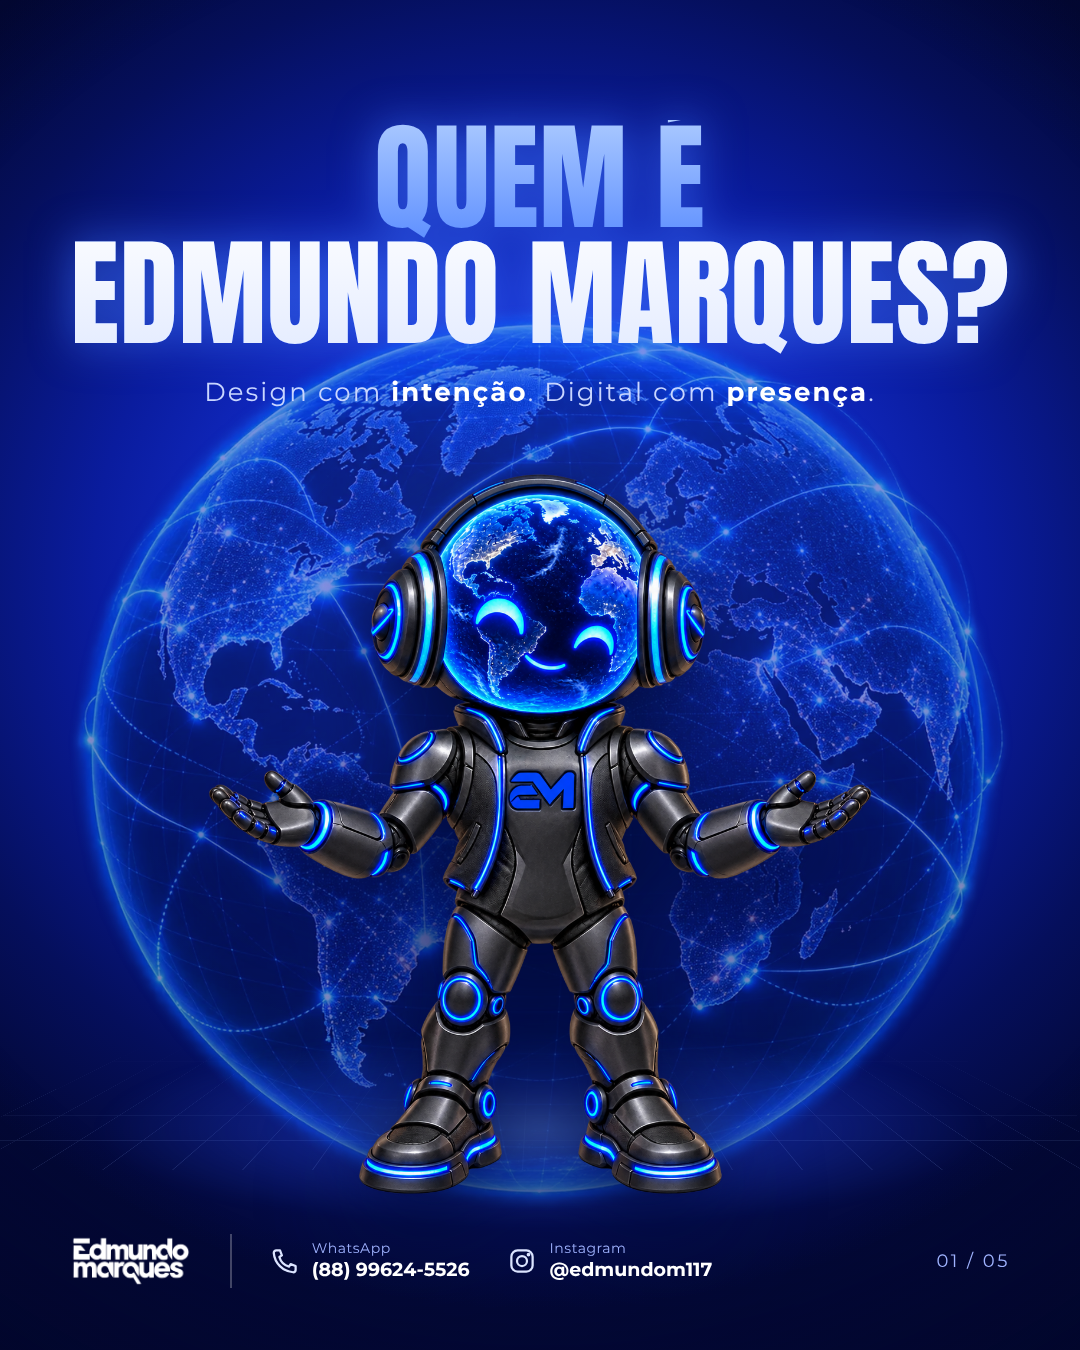
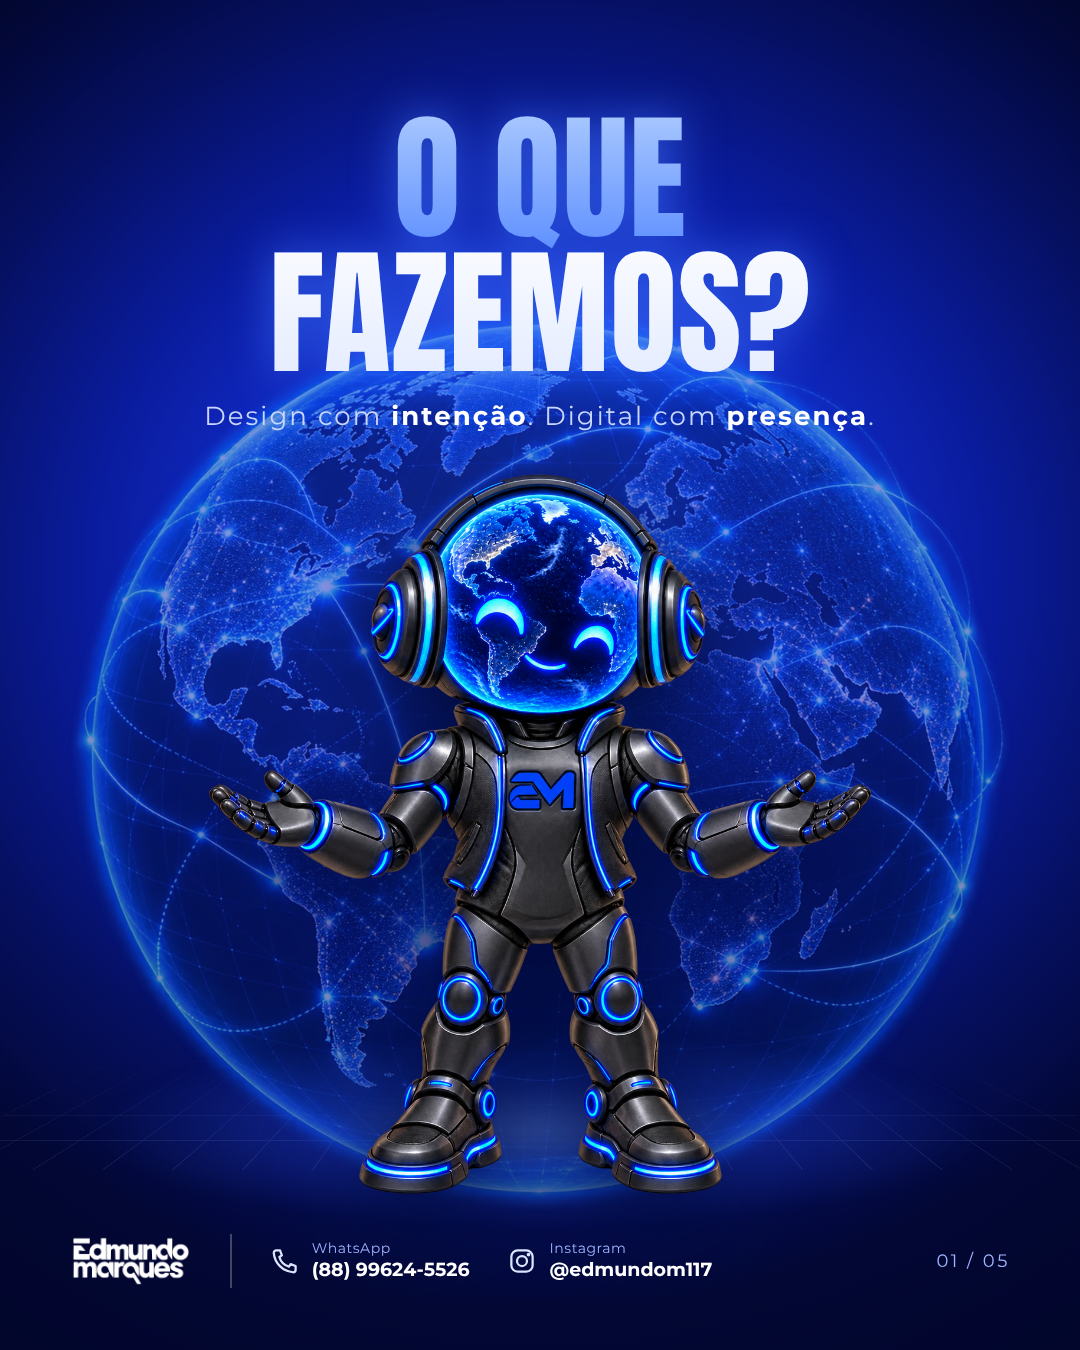
Troca o título da capa do carrossel para "O que fazemos?"
Claude-Session: https://claude.ai/code/session_011ixy7renb3izevRWvSjSQM

Changed region(s): [[0.0611, 0.0622, 0.9472, 0.3111]]

diff --git a/instagram/carrossel-quem-e/slides-v2.html b/instagram/carrossel-quem-e/slides-v2.html
@@ -46,8 +46,8 @@ body{background:#111;font-family:'Montserrat',Arial,sans-serif;color:#fff}
 .s1 .globe{left:50%;top:260px;width:1000px;transform:translateX(-50%);opacity:.5;z-index:1}
 .s1 .robot{left:50%;bottom:140px;width:740px;transform:translateX(-50%);filter:drop-shadow(0 30px 50px #000a3a)}
 .s1 .floor{bottom:120px}
-.s1 .title{position:absolute;top:120px;left:0;right:0;text-align:center;font-size:118px;white-space:nowrap;z-index:3}
-.s1 .kicker{position:absolute;top:376px;left:0;right:0;text-align:center;z-index:3}
+.s1 .title{position:absolute;top:110px;left:0;right:0;text-align:center;font-size:138px;white-space:nowrap;z-index:3}
+.s1 .kicker{position:absolute;top:400px;left:0;right:0;text-align:center;z-index:3}
 
 /* 2 */
 .s2 .robot{left:-40px;bottom:150px;width:600px;filter:drop-shadow(0 30px 50px #000a3a)}
@@ -107,7 +107,7 @@ body{background:#111;font-family:'Montserrat',Arial,sans-serif;color:#fff}
 <section class="slide s1" id="s1">
   <div class="grid"></div>
   <img class="layer globe" src="../../assets/globo-holografico.webp" alt="">
-  <div class="title">Quem é<br><span class="w">Edmundo Marques?</span></div>
+  <div class="title">O que<br><span class="w">fazemos?</span></div>
   <div class="kicker">Design com <b>intenção</b>. Digital com <b>presença</b>.</div>
   <div class="floor"></div>
   <img class="layer robot" src="../../assets/robo-servicos.png" alt="">
